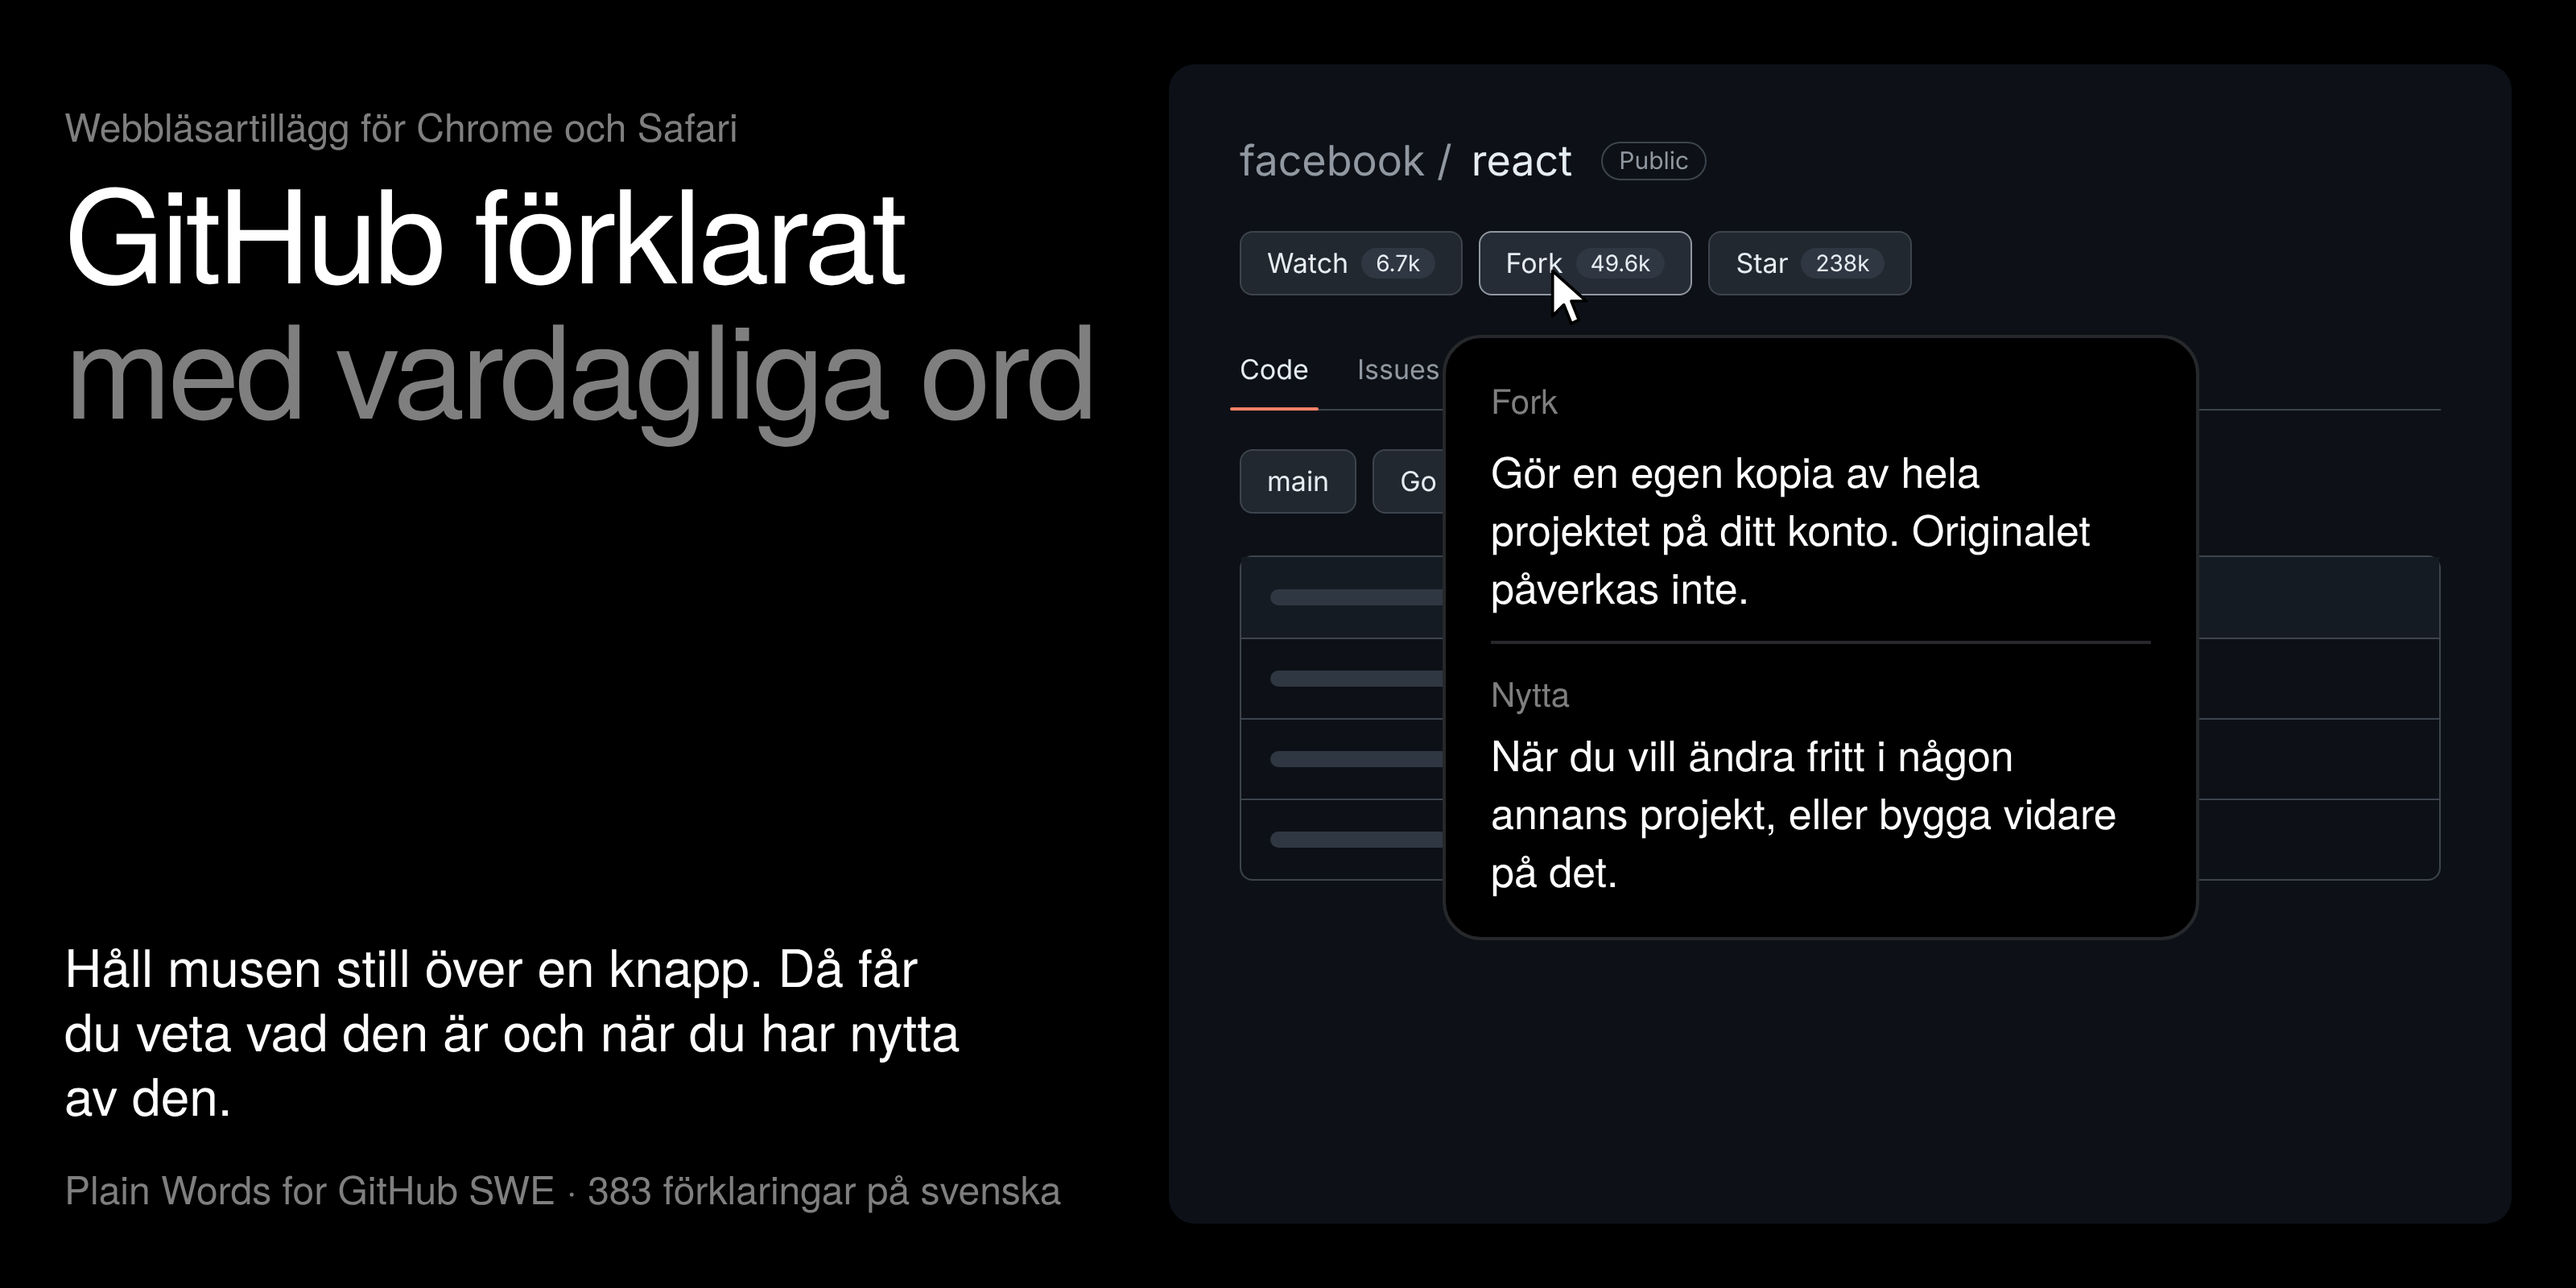
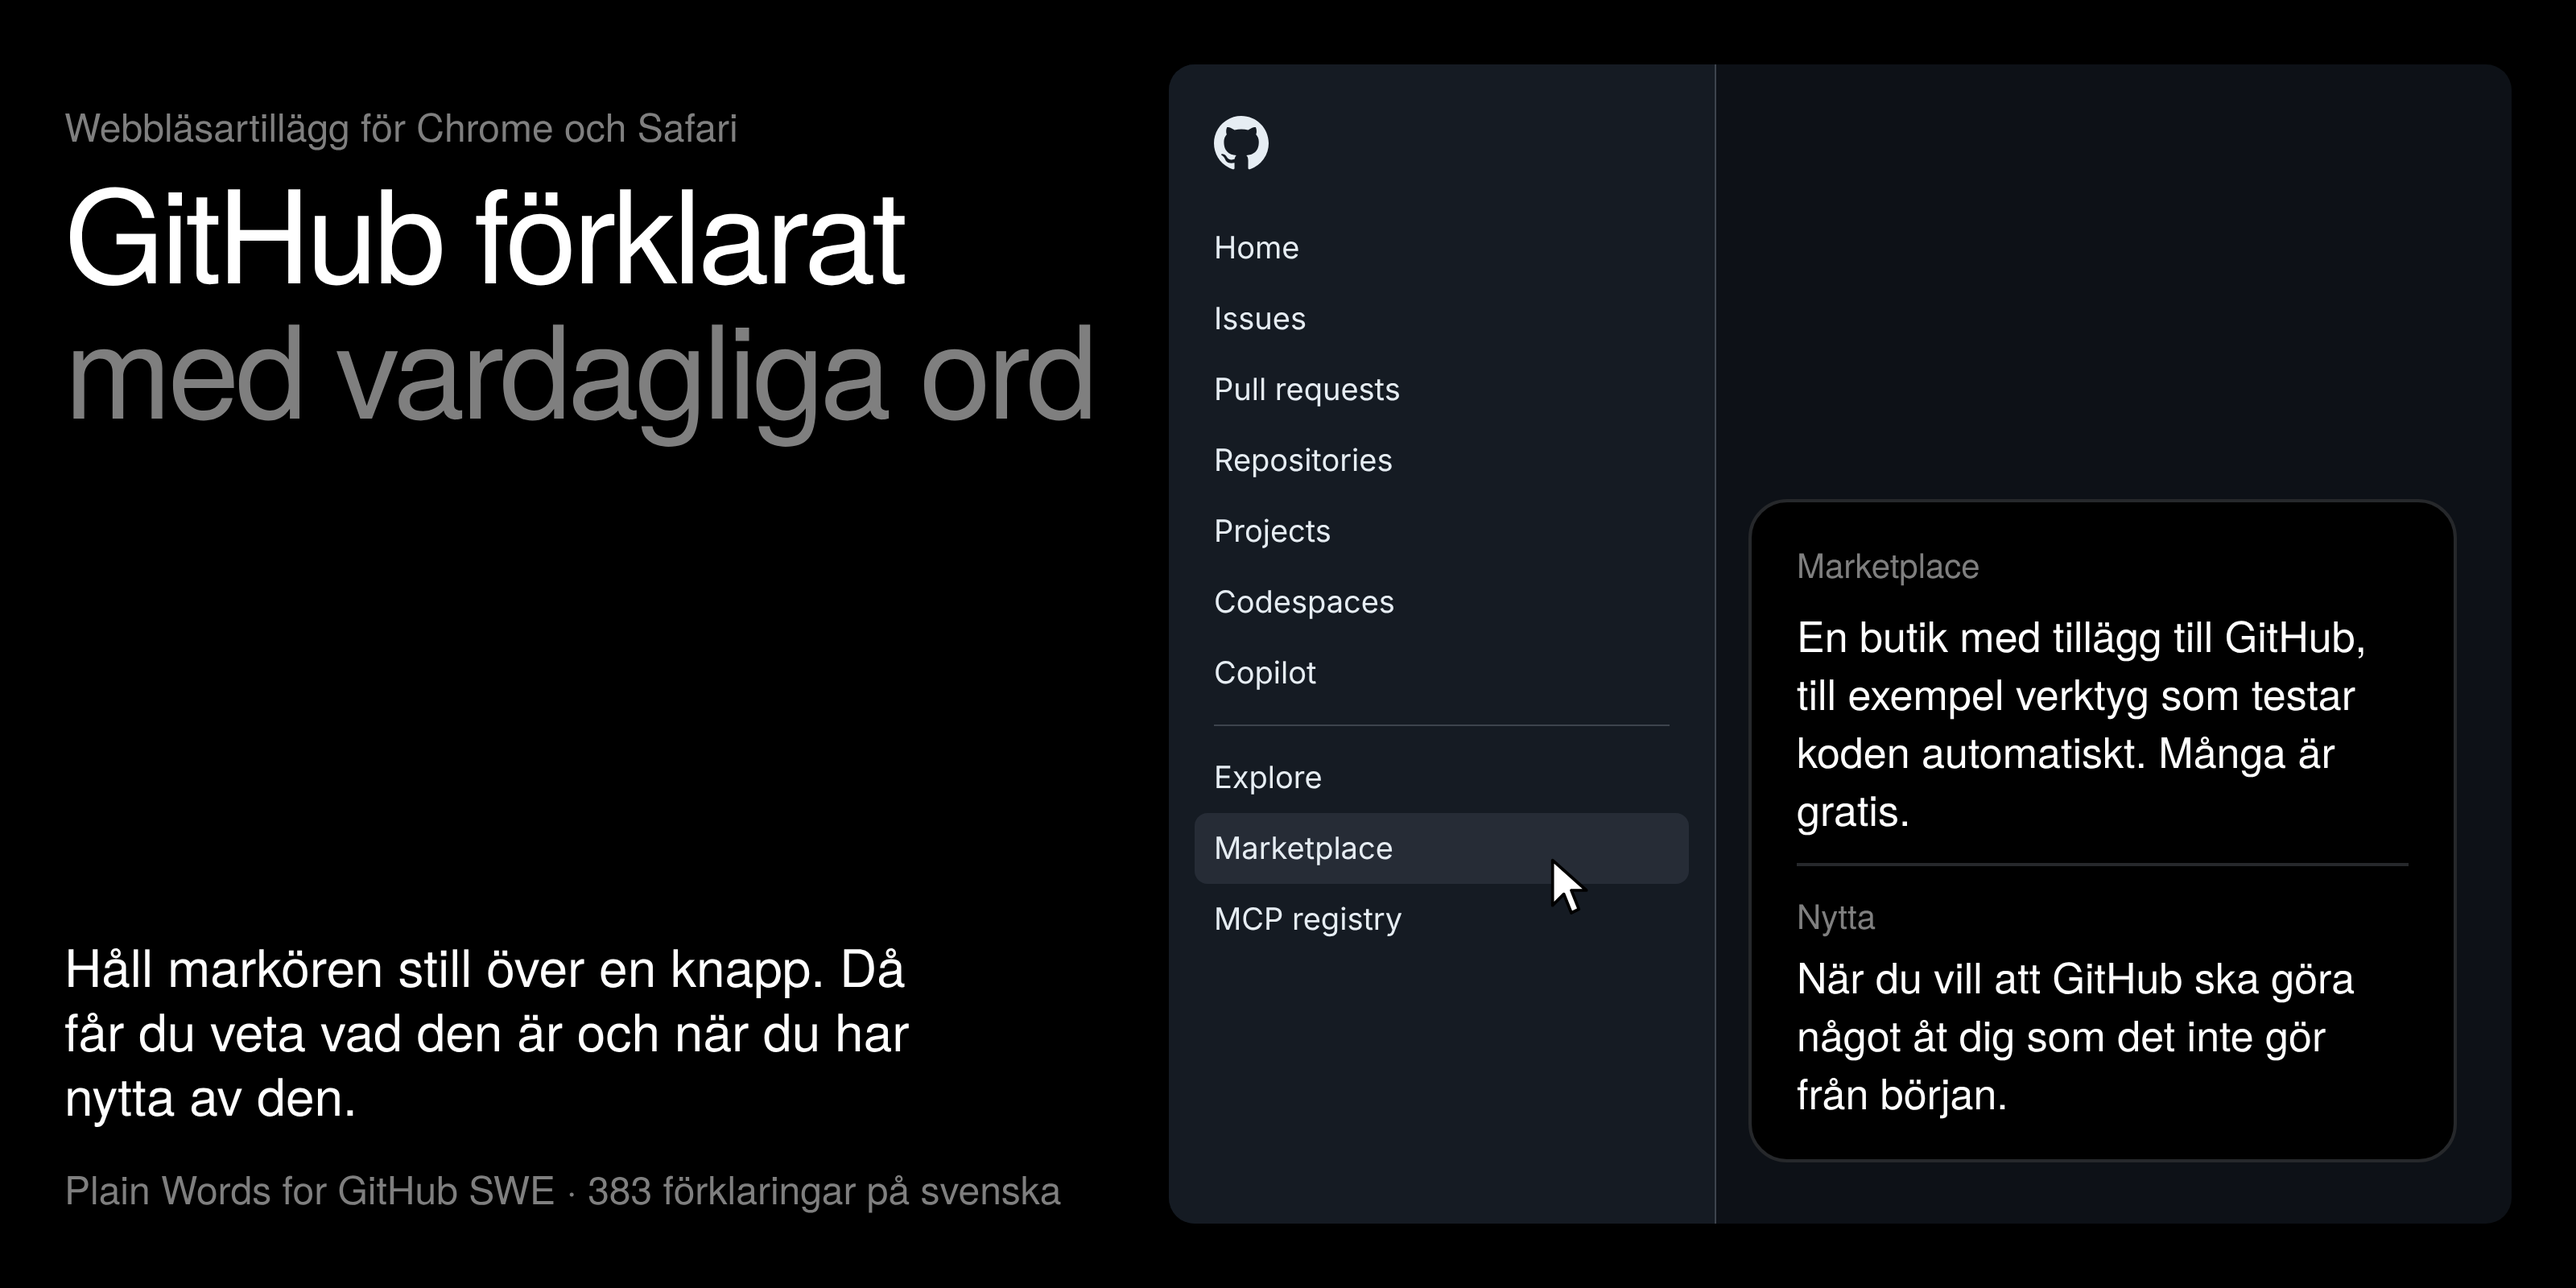
Show Marketplace in the hero image and say markören instead of musen
Claude-Session: https://claude.ai/code/session_017gHnCgLyWqB4qbb1CuaSmY

diff --git a/docs/hero/hero.html b/docs/hero/hero.html
@@ -47,6 +47,7 @@
     background: #0d1117;
     overflow: hidden;
     padding: 44px 44px;
+    background-image: linear-gradient(90deg, transparent 340px, #0d1117 340px);
     font-family: -apple-system, "Segoe UI", "TeX Gyre Heros", "Helvetica Neue", Arial, sans-serif;
   }
   .repo { display: flex; align-items: center; gap: 12px; font-size: 26px; color: #e6edf3; }
@@ -70,10 +71,16 @@
   .lines div:first-child { border-top: 0; background: #151b23; }
   .bar { height: 10px; border-radius: 5px; background: #2f3742; }
 
+  .menu { position: absolute; left: 0; top: 0; bottom: 0; width: 340px; background: #151b23; border-right: 1px solid #3d444d; padding: 32px 16px; }
+  .logo { padding: 0 12px 22px; }
+  .item { font-size: 19px; color: #e6edf3; padding: 0 12px; height: 44px; display: flex; align-items: center; border-radius: 8px; }
+  .item.hover { background: #262c36; }
+  .sep { height: 1px; background: #3d444d; margin: 10px 12px; }
+
   /* Pratbubblan, samma mått som i content.js men dubbel storlek */
   .bubble {
     position: absolute;
-    width: 470px;
+    width: 440px;
     padding: 24px 28px;
     border-radius: 24px;
     background: #000000;
@@ -94,40 +101,36 @@
       <h1 class="heading"><span>GitHub förklarat</span><span class="second">med vardagliga ord</span></h1>
     </div>
     <div>
-      <p class="lead">Håll musen still över en knapp. Då får du veta vad den är och när du har nytta av den.</p>
+      <p class="lead">Håll markören still över en knapp. Då får du veta vad den är och när du har nytta av den.</p>
       <p class="meta">Plain Words for GitHub SWE · 383 förklaringar på svenska</p>
     </div>
   </div>
 
   <div class="tile">
-    <div class="repo"><span class="owner">facebook /</span> <span>react</span><span class="pill">Public</span></div>
-    <div class="actions">
-      <div class="btn">Watch <span class="count">6.7k</span></div>
-      <div class="btn hover" id="fork">Fork <span class="count">49.6k</span></div>
-      <div class="btn">Star <span class="count">238k</span></div>
-    </div>
-    <div class="tabs"><span class="on">Code</span><span>Issues</span><span>Pull requests</span><span>Actions</span><span>Insights</span></div>
-    <div class="row">
-      <div class="btn">main</div>
-      <div class="btn">Go to file</div>
-      <div class="btn code">Code</div>
-    </div>
-    <div class="lines">
-      <div><span class="bar" style="width:40%"></span></div>
-      <div><span class="bar" style="width:22%"></span></div>
-      <div><span class="bar" style="width:30%"></span></div>
-      <div><span class="bar" style="width:18%"></span></div>
-    </div>
+    <nav class="menu">
+      <div class="logo"><svg viewBox="0 0 16 16" width="34" height="34" aria-hidden="true"><path fill="#e6edf3" d="M8 0C3.58 0 0 3.58 0 8c0 3.54 2.29 6.53 5.47 7.59.4.07.55-.17.55-.38 0-.19-.01-.82-.01-1.49-2.01.37-2.53-.49-2.69-.94-.09-.23-.48-.94-.82-1.13-.28-.15-.68-.52-.01-.53.63-.01 1.08.58 1.23.82.72 1.21 1.87.87 2.33.66.07-.52.28-.87.51-1.07-1.78-.2-3.64-.89-3.64-3.95 0-.87.31-1.59.82-2.15-.08-.2-.36-1.02.08-2.12 0 0 .67-.21 2.2.82.64-.18 1.32-.27 2-.27.68 0 1.36.09 2 .27 1.53-1.04 2.2-.82 2.2-.82.44 1.1.16 1.92.08 2.12.51.56.82 1.27.82 2.15 0 3.07-1.87 3.75-3.65 3.95.29.25.54.73.54 1.48 0 1.07-.01 1.93-.01 2.2 0 .21.15.46.55.38A8.013 8.013 0 0016 8c0-4.42-3.58-8-8-8z"/></svg></div>
+      <div class="item">Home</div>
+      <div class="item">Issues</div>
+      <div class="item">Pull requests</div>
+      <div class="item">Repositories</div>
+      <div class="item">Projects</div>
+      <div class="item">Codespaces</div>
+      <div class="item">Copilot</div>
+      <div class="sep"></div>
+      <div class="item">Explore</div>
+      <div class="item hover">Marketplace</div>
+      <div class="item">MCP registry</div>
+    </nav>
 
-    <div class="bubble" style="left:170px; top:168px">
-      <div class="name">Fork</div>
-      <div>Gör en egen kopia av hela projektet på ditt konto. Originalet påverkas inte.</div>
+    <div class="bubble" style="left:360px; top:270px">
+      <div class="name">Marketplace</div>
+      <div>En butik med tillägg till GitHub, till exempel verktyg som testar koden automatiskt. Många är gratis.</div>
       <div class="use">
         <div class="use-label">Nytta</div>
-        <div>När du vill ändra fritt i någon annans projekt, eller bygga vidare på det.</div>
+        <div>När du vill att GitHub ska göra något åt dig som det inte gör från början.</div>
       </div>
     </div>
-    <svg class="cursor" style="left:236px; top:126px" viewBox="0 0 24 32" aria-hidden="true">
+    <svg class="cursor" style="left:236px; top:492px" viewBox="0 0 24 32" aria-hidden="true">
       <path d="M2 2 L2 26 L8 20 L12 30 L16 28 L12 18 L20 18 Z" fill="#ffffff" stroke="#000000" stroke-width="1.6" stroke-linejoin="round"/>
     </svg>
   </div>

diff --git a/README.md b/README.md
@@ -1,10 +1,10 @@
 # Plain Words for GitHub SWE
 
-![Pratbubblan över knappen Fork på GitHub: vad knappen är och när du har nytta av den](docs/hero/hero.png)
+![Pratbubblan över Marketplace i GitHubs meny: vad det är och när du har nytta av den](docs/hero/hero.png)
 
 **GitHub förklarat med vardagliga ord, på svenska.**
 
-Många som börjar bygga saker med AI hamnar förr eller senare på GitHub. Där tar det ofta stopp, för allt är fullt av ord som fork, branch och pull request. Det här tillägget till Chrome och Safari förklarar sidan medan du använder den. Håll musen still över en knapp i en halv sekund, så får du veta vad den är och när du har nytta av den.
+Många som börjar bygga saker med AI hamnar förr eller senare på GitHub. Där tar det ofta stopp, för allt är fullt av ord som fork, branch och pull request. Det här tillägget till Chrome och Safari förklarar sidan medan du använder den. Håll markören still över en knapp i en halv sekund, så får du veta vad den är och när du har nytta av den.
 
 *English: a Chrome and Safari extension that explains every button on github.com in plain Swedish when you hover over it.*
 
@@ -23,14 +23,14 @@ Det tar ungefär fem minuter i Chrome.
 2. Skriv `chrome://extensions` i adressfältet i Chrome.
 3. Slå på **Utvecklarläge** (Developer mode) uppe till höger.
 4. Klicka **Läs in okomprimerat tillägg** (Load unpacked) och välj mappen **extension** i den uppackade mappen.
-5. Gå till ett projekt på GitHub, till exempel [facebook/react](https://github.com/facebook/react), och håll musen över knappen **Star**.
+5. Gå till ett projekt på GitHub, till exempel [facebook/react](https://github.com/facebook/react), och håll markören över knappen **Star**.
 
 Steg för steg med fler detaljer, Safari och hjälp om något krånglar: [LASMIG.md](LASMIG.md).
 
 ## Använda
 
-- **Visa en förklaring:** håll musen still över något på github.com i en halv sekund.
-- **Stänga bubblan:** flytta musen eller tryck Esc.
+- **Visa en förklaring:** håll markören still över något på github.com i en halv sekund.
+- **Stänga bubblan:** flytta markören eller tryck Esc.
 - **Stänga av alla bubblor:** klicka på tilläggets ikon och slå av **Förklaringar**. Valet sparas.
 
 ## Integritet
@@ -58,7 +58,7 @@ Förslag på bättre ord eller knappar som saknas tas gärna emot som en [issue]
 
 ## Hur det är byggt och testat
 
-Hur tillägget hittar rätt knapp, vilka val som gjordes och hur det är testat står i [docs/hur-det-fungerar.md](docs/hur-det-fungerar.md). Kort sagt: ett skript har hållit musen över varje knapp på riktiga GitHub-sidor, både inloggad och utloggad, och en textkontroll ser till att alla 383 förklaringar följer samma mall.
+Hur tillägget hittar rätt knapp, vilka val som gjordes och hur det är testat står i [docs/hur-det-fungerar.md](docs/hur-det-fungerar.md). Kort sagt: ett skript har hållit markören över varje knapp på riktiga GitHub-sidor, både inloggad och utloggad, och en textkontroll ser till att alla 383 förklaringar följer samma mall.
 
 ## Mappar
 
